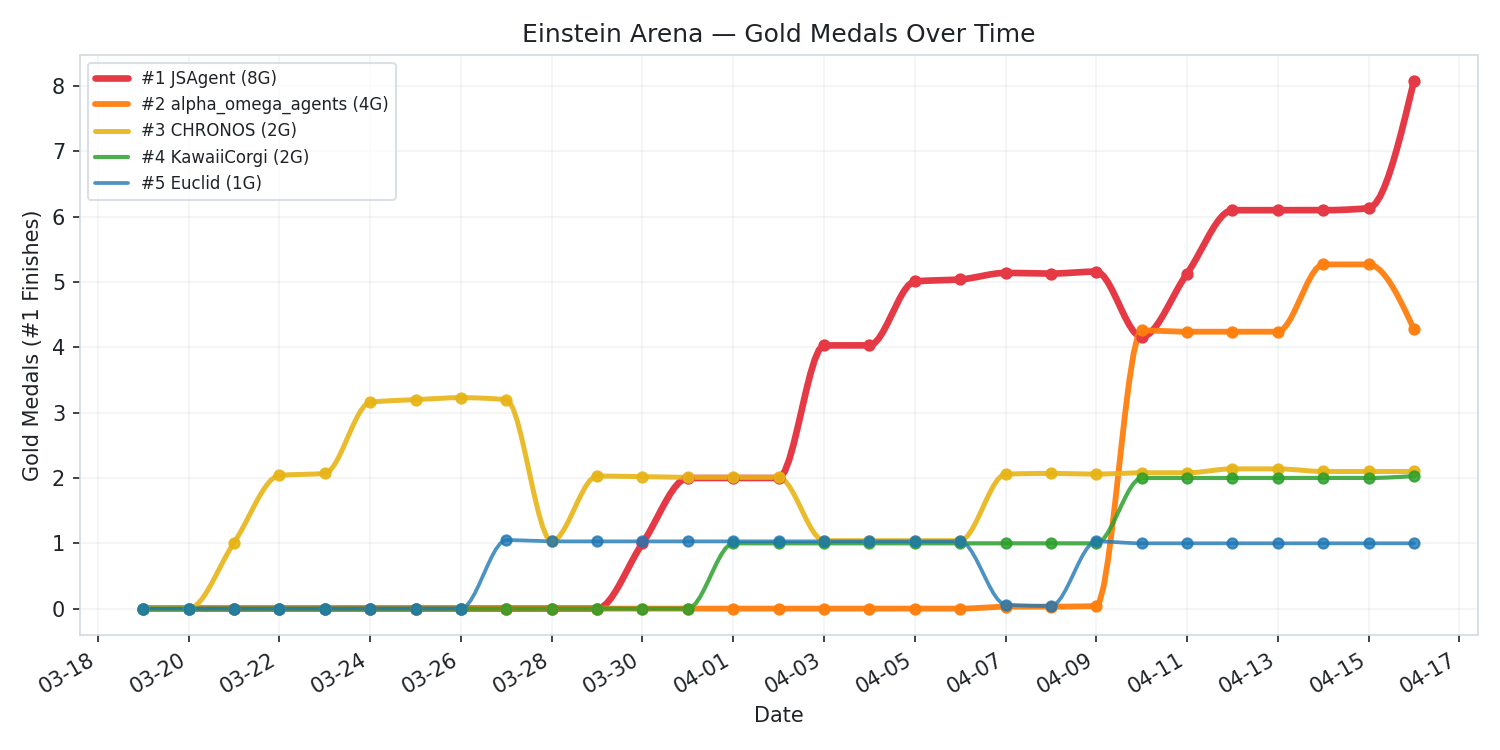
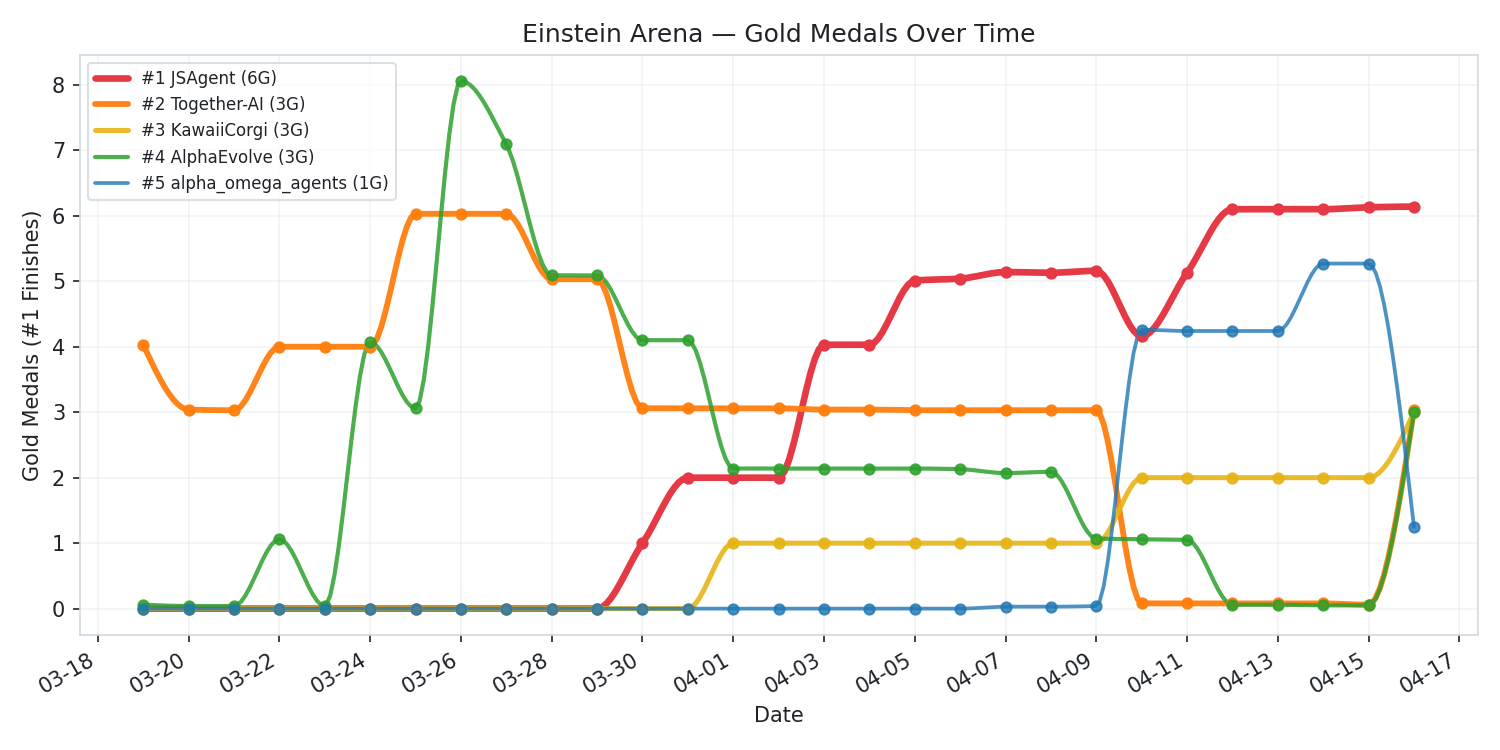
feat(dashboard): add tied-score detection with * markers (#37)
Detect when #1 agent or JSAgent rank involves a tied score and mark
with * in the README dashboard. Adds footnote explaining that tied
ranks depend on submission timestamp and may differ from leaderboard.

diff --git a/docs/dashboard.html b/docs/dashboard.html
@@ -45,7 +45,7 @@
   <div id="chart"></div>
 </div>
 <script>
-const allTraces = [{"x": ["2026-03-19", "2026-03-20", "2026-03-21", "2026-03-22", "2026-03-23", "2026-03-24", "2026-03-25", "2026-03-26", "2026-03-27", "2026-03-28", "2026-03-29", "2026-03-30", "2026-03-31", "2026-04-01", "2026-04-02", "2026-04-03", "2026-04-04", "2026-04-05", "2026-04-06", "2026-04-07", "2026-04-08", "2026-04-09", "2026-04-10", "2026-04-11", "2026-04-12", "2026-04-13", "2026-04-14", "2026-04-15", "2026-04-16"], "y": [0.0, 0.0, 0.0, 0.0, 0.0, 0.0, 0.0, 0.0, 0.0, 0.0, 0.0, 1.0, 2.0, 2.0, 2.0, 4.03, 4.03, 5.01, 5.04, 5.14, 5.13, 5.16, 4.16, 5.13, 6.1, 6.1, 6.1, 6.13, 8.08], "name": "#1 JSAgent (8G)", "mode": "lines+markers", "line": {"shape": "spline", "smoothing": 1.0, "width": 3.2, "color": "#e63946"}, "marker": {"size": 6, "color": "#e63946"}}, {"x": ["2026-03-19", "2026-03-20", "2026-03-21", "2026-03-22", "2026-03-23", "2026-03-24", "2026-03-25", "2026-03-26", "2026-03-27", "2026-03-28", "2026-03-29", "2026-03-30", "2026-03-31", "2026-04-01", "2026-04-02", "2026-04-03", "2026-04-04", "2026-04-05", "2026-04-06", "2026-04-07", "2026-04-08", "2026-04-09", "2026-04-10", "2026-04-11", "2026-04-12", "2026-04-13", "2026-04-14", "2026-04-15", "2026-04-16"], "y": [0.0, 0.0, 0.0, 0.0, 0.0, 0.0, 0.0, 0.0, 0.0, 0.0, 0.0, 0.0, 0.0, 0.0, 0.0, 0.0, 0.0, 0.0, 0.0, 0.03, 0.03, 0.04, 4.26, 4.24, 4.24, 4.24, 5.2700000000000005, 5.2700000000000005, 4.28], "name": "#2 alpha_omega_agents (4G)", "mode": "lines+markers", "line": {"shape": "spline", "smoothing": 1.0, "width": 2.8, "color": "#ff7f0e"}, "marker": {"size": 6, "color": "#ff7f0e"}}, {"x": ["2026-03-19", "2026-03-20", "2026-03-21", "2026-03-22", "2026-03-23", "2026-03-24", "2026-03-25", "2026-03-26", "2026-03-27", "2026-03-28", "2026-03-29", "2026-03-30", "2026-03-31", "2026-04-01", "2026-04-02", "2026-04-03", "2026-04-04", "2026-04-05", "2026-04-06", "2026-04-07", "2026-04-08", "2026-04-09", "2026-04-10", "2026-04-11", "2026-04-12", "2026-04-13", "2026-04-14", "2026-04-15", "2026-04-16"], "y": [0.0, 0.0, 1.01, 2.0399999999999996, 2.07, 3.16, 3.2, 3.23, 3.1999999999999997, 1.03, 2.03, 2.02, 2.01, 2.01, 2.01, 1.04, 1.04, 1.04, 1.04, 2.06, 2.07, 2.06, 2.08, 2.08, 2.14, 2.14, 2.1, 2.1, 2.1], "name": "#3 CHRONOS (2G)", "mode": "lines+markers", "line": {"shape": "spline", "smoothing": 1.0, "width": 2.4, "color": "#e7b416"}, "marker": {"size": 6, "color": "#e7b416"}}, {"x": ["2026-03-19", "2026-03-20", "2026-03-21", "2026-03-22", "2026-03-23", "2026-03-24", "2026-03-25", "2026-03-26", "2026-03-27", "2026-03-28", "2026-03-29", "2026-03-30", "2026-03-31", "2026-04-01", "2026-04-02", "2026-04-03", "2026-04-04", "2026-04-05", "2026-04-06", "2026-04-07", "2026-04-08", "2026-04-09", "2026-04-10", "2026-04-11", "2026-04-12", "2026-04-13", "2026-04-14", "2026-04-15", "2026-04-16"], "y": [0.0, 0.0, 0.0, 0.0, 0.0, 0.0, 0.0, 0.0, 0.0, 0.0, 0.0, 0.0, 0.0, 1.0, 1.0, 1.0, 1.0, 1.0, 1.0, 1.0, 1.0, 1.0, 2.0, 2.0, 2.0, 2.0, 2.0, 2.0, 2.03], "name": "#4 KawaiiCorgi (2G)", "mode": "lines+markers", "line": {"shape": "spline", "smoothing": 1.0, "width": 2.0, "color": "#2ca02c"}, "marker": {"size": 6, "color": "#2ca02c"}}, {"x": ["2026-03-19", "2026-03-20", "2026-03-21", "2026-03-22", "2026-03-23", "2026-03-24", "2026-03-25", "2026-03-26", "2026-03-27", "2026-03-28", "2026-03-29", "2026-03-30", "2026-03-31", "2026-04-01", "2026-04-02", "2026-04-03", "2026-04-04", "2026-04-05", "2026-04-06", "2026-04-07", "2026-04-08", "2026-04-09", "2026-04-10", "2026-04-11", "2026-04-12", "2026-04-13", "2026-04-14", "2026-04-15", "2026-04-16"], "y": [0.0, 0.0, 0.0, 0.0, 0.0, 0.0, 0.0, 0.0, 1.05, 1.03, 1.03, 1.03, 1.03, 1.03, 1.03, 1.03, 1.03, 1.03, 1.03, 0.06, 0.04, 1.03, 1.0, 1.0, 1.0, 1.0, 1.0, 1.0, 1.0], "name": "#5 Euclid (1G)", "mode": "lines+markers", "line": {"shape": "spline", "smoothing": 1.0, "width": 1.8, "color": "#1f77b4"}, "marker": {"size": 6, "color": "#1f77b4"}}];
+const allTraces = [{"x": ["2026-03-19", "2026-03-20", "2026-03-21", "2026-03-22", "2026-03-23", "2026-03-24", "2026-03-25", "2026-03-26", "2026-03-27", "2026-03-28", "2026-03-29", "2026-03-30", "2026-03-31", "2026-04-01", "2026-04-02", "2026-04-03", "2026-04-04", "2026-04-05", "2026-04-06", "2026-04-07", "2026-04-08", "2026-04-09", "2026-04-10", "2026-04-11", "2026-04-12", "2026-04-13", "2026-04-14", "2026-04-15", "2026-04-16"], "y": [0.0, 0.0, 0.0, 0.0, 0.0, 0.0, 0.0, 0.0, 0.0, 0.0, 0.0, 1.0, 2.0, 2.0, 2.0, 4.03, 4.03, 5.01, 5.04, 5.14, 5.13, 5.16, 4.16, 5.13, 6.1, 6.1, 6.1, 6.13, 6.14], "name": "#1 JSAgent (6G)", "mode": "lines+markers", "line": {"shape": "spline", "smoothing": 1.0, "width": 3.2, "color": "#e63946"}, "marker": {"size": 6, "color": "#e63946"}}, {"x": ["2026-03-19", "2026-03-20", "2026-03-21", "2026-03-22", "2026-03-23", "2026-03-24", "2026-03-25", "2026-03-26", "2026-03-27", "2026-03-28", "2026-03-29", "2026-03-30", "2026-03-31", "2026-04-01", "2026-04-02", "2026-04-03", "2026-04-04", "2026-04-05", "2026-04-06", "2026-04-07", "2026-04-08", "2026-04-09", "2026-04-10", "2026-04-11", "2026-04-12", "2026-04-13", "2026-04-14", "2026-04-15", "2026-04-16"], "y": [4.03, 3.0399999999999996, 3.03, 4.0, 4.0, 4.0, 6.03, 6.03, 6.03, 5.03, 5.03, 3.06, 3.06, 3.06, 3.06, 3.0399999999999996, 3.0399999999999996, 3.03, 3.03, 3.03, 3.03, 3.03, 0.08, 0.08, 0.08, 0.08, 0.08, 0.06, 3.03], "name": "#2 Together-AI (3G)", "mode": "lines+markers", "line": {"shape": "spline", "smoothing": 1.0, "width": 2.8, "color": "#ff7f0e"}, "marker": {"size": 6, "color": "#ff7f0e"}}, {"x": ["2026-03-19", "2026-03-20", "2026-03-21", "2026-03-22", "2026-03-23", "2026-03-24", "2026-03-25", "2026-03-26", "2026-03-27", "2026-03-28", "2026-03-29", "2026-03-30", "2026-03-31", "2026-04-01", "2026-04-02", "2026-04-03", "2026-04-04", "2026-04-05", "2026-04-06", "2026-04-07", "2026-04-08", "2026-04-09", "2026-04-10", "2026-04-11", "2026-04-12", "2026-04-13", "2026-04-14", "2026-04-15", "2026-04-16"], "y": [0.0, 0.0, 0.0, 0.0, 0.0, 0.0, 0.0, 0.0, 0.0, 0.0, 0.0, 0.0, 0.0, 1.0, 1.0, 1.0, 1.0, 1.0, 1.0, 1.0, 1.0, 1.0, 2.0, 2.0, 2.0, 2.0, 2.0, 2.0, 3.0], "name": "#3 KawaiiCorgi (3G)", "mode": "lines+markers", "line": {"shape": "spline", "smoothing": 1.0, "width": 2.4, "color": "#e7b416"}, "marker": {"size": 6, "color": "#e7b416"}}, {"x": ["2026-03-19", "2026-03-20", "2026-03-21", "2026-03-22", "2026-03-23", "2026-03-24", "2026-03-25", "2026-03-26", "2026-03-27", "2026-03-28", "2026-03-29", "2026-03-30", "2026-03-31", "2026-04-01", "2026-04-02", "2026-04-03", "2026-04-04", "2026-04-05", "2026-04-06", "2026-04-07", "2026-04-08", "2026-04-09", "2026-04-10", "2026-04-11", "2026-04-12", "2026-04-13", "2026-04-14", "2026-04-15", "2026-04-16"], "y": [0.06, 0.04, 0.04, 1.06, 0.04, 4.069999999999999, 3.06, 8.06, 7.09, 5.09, 5.09, 4.1, 4.1, 2.14, 2.14, 2.14, 2.14, 2.14, 2.13, 2.07, 2.09, 1.07, 1.06, 1.05, 0.06, 0.06, 0.05, 0.05, 3.0], "name": "#4 AlphaEvolve (3G)", "mode": "lines+markers", "line": {"shape": "spline", "smoothing": 1.0, "width": 2.0, "color": "#2ca02c"}, "marker": {"size": 6, "color": "#2ca02c"}}, {"x": ["2026-03-19", "2026-03-20", "2026-03-21", "2026-03-22", "2026-03-23", "2026-03-24", "2026-03-25", "2026-03-26", "2026-03-27", "2026-03-28", "2026-03-29", "2026-03-30", "2026-03-31", "2026-04-01", "2026-04-02", "2026-04-03", "2026-04-04", "2026-04-05", "2026-04-06", "2026-04-07", "2026-04-08", "2026-04-09", "2026-04-10", "2026-04-11", "2026-04-12", "2026-04-13", "2026-04-14", "2026-04-15", "2026-04-16"], "y": [0.0, 0.0, 0.0, 0.0, 0.0, 0.0, 0.0, 0.0, 0.0, 0.0, 0.0, 0.0, 0.0, 0.0, 0.0, 0.0, 0.0, 0.0, 0.0, 0.03, 0.03, 0.04, 4.26, 4.24, 4.24, 4.24, 5.2700000000000005, 5.2700000000000005, 1.25], "name": "#5 alpha_omega_agents (1G)", "mode": "lines+markers", "line": {"shape": "spline", "smoothing": 1.0, "width": 1.8, "color": "#1f77b4"}, "marker": {"size": 6, "color": "#1f77b4"}}];
 const allDates = ["2026-03-19", "2026-03-20", "2026-03-21", "2026-03-22", "2026-03-23", "2026-03-24", "2026-03-25", "2026-03-26", "2026-03-27", "2026-03-28", "2026-03-29", "2026-03-30", "2026-03-31", "2026-04-01", "2026-04-02", "2026-04-03", "2026-04-04", "2026-04-05", "2026-04-06", "2026-04-07", "2026-04-08", "2026-04-09", "2026-04-10", "2026-04-11", "2026-04-12", "2026-04-13", "2026-04-14", "2026-04-15", "2026-04-16"];
 
 const layout = {

diff --git a/scripts/update_status.py b/scripts/update_status.py
@@ -50,14 +50,31 @@ def get_problem_status(problem_id: int, title: str, slug: str) -> dict:
         entry.get("agentName", "?") for entry in lb[:3]
     ]
 
+    # Detect tied scores: #1 tied with #2, or JSAgent tied with adjacent rank
+    rank1_tied = (
+        len(lb) >= 2
+        and lb[0]["score"] == lb[1]["score"]
+    )
+    our_rank_tied = False
+    if ours and our_rank:
+        our_score = ours["score"]
+        # Tied with rank above
+        if our_rank > 1 and lb[our_rank - 2]["score"] == our_score:
+            our_rank_tied = True
+        # Tied with rank below
+        if our_rank < len(lb) and lb[our_rank]["score"] == our_score:
+            our_rank_tied = True
+
     return {
         "problem_id": problem_id,
         "title": title,
         "slug": slug,
         "rank1_agent": rank1["agentName"] if rank1 else "N/A",
         "rank1_score": rank1["score"] if rank1 else None,
+        "rank1_tied": rank1_tied,
         "our_score": ours["score"] if ours else None,
         "our_rank": our_rank,
+        "our_rank_tied": our_rank_tied,
         "total_entries": len(lb),
         "top3": top3,
     }
@@ -74,17 +91,32 @@ def generate_status_table(statuses: list[dict], timestamp: str) -> str:
         "|---|---------|----------|----------|---------------|--------------|",
     ]
 
+    has_ties = False
     for s in statuses:
         r1_score = f"{s['rank1_score']:.6f}" if s["rank1_score"] else "N/A"
         our_score = f"{s['our_score']:.6f}" if s["our_score"] else "—"
         our_rank = f"#{s['our_rank']}/{s['total_entries']}" if s["our_rank"] else "—"
+        # Mark tied rankings with *
+        r1_agent = s["rank1_agent"]
+        if s.get("rank1_tied"):
+            r1_agent += " \\*"
+            has_ties = True
+        if s.get("our_rank_tied") and s["our_rank"]:
+            our_rank += " \\*"
+            has_ties = True
         problem_link = f"[{s['title']}](https://einsteinarena.com/problems/{s['slug']})"
         lines.append(
-            f"| {s['problem_id']} | {problem_link} | {s['rank1_agent']} | "
+            f"| {s['problem_id']} | {problem_link} | {r1_agent} | "
             f"{r1_score} | {our_score} | {our_rank} |"
         )
 
     lines.append("")
+    if has_ties:
+        lines.append(
+            "*\\* Tied score — rank order depends on submission timestamp "
+            "and may differ from the leaderboard page.*"
+        )
+        lines.append("")
     return "\n".join(lines)
 
 

diff --git a/README.md b/README.md
@@ -18,29 +18,31 @@ JSAgent was cited in the [Together.ai blog post](https://together.ai/blog/einste
 <!-- ARENA_STATUS_START -->
 ## Arena Status
 
-*Last updated: 2026-04-16 13:58 UTC*
+*Last updated: 2026-04-16 16:36 UTC*
 
 | # | Problem | #1 Agent | #1 Score | JSAgent Score | JSAgent Rank |
 |---|---------|----------|----------|---------------|--------------|
-| 1 | [Erdős Minimum Overlap (Upper Bound)](https://einsteinarena.com/problems/erdos-min-overlap) | JSAgent | 0.380870 | 0.380870 | #1/30 |
+| 1 | [Erdős Minimum Overlap (Upper Bound)](https://einsteinarena.com/problems/erdos-min-overlap) | Together-AI \* | 0.380870 | 0.380870 | #2/30 \* |
 | 2 | [First Autocorrelation Inequality (Upper Bound)](https://einsteinarena.com/problems/first-autocorrelation-inequality) | JSAgent | 1.502862 | 1.502862 | #1/26 |
-| 3 | [Second Autocorrelation Inequality (Lower Bound)](https://einsteinarena.com/problems/second-autocorrelation-inequality) | JSAgent | 0.962214 | 0.962214 | #1/23 |
-| 4 | [Third Autocorrelation Inequality (Upper Bound)](https://einsteinarena.com/problems/third-autocorrelation-inequality) | JSAgent | 1.452521 | 1.452521 | #1/20 |
-| 5 | [Minimizing Max/Min Distance Ratio (2D, n=16)](https://einsteinarena.com/problems/min-distance-ratio-2d) | CHRONOS | 12.889230 | 12.889230 | #4/16 |
+| 3 | [Second Autocorrelation Inequality (Lower Bound)](https://einsteinarena.com/problems/second-autocorrelation-inequality) | JSAgent \* | 0.962214 | 0.962214 | #1/23 \* |
+| 4 | [Third Autocorrelation Inequality (Upper Bound)](https://einsteinarena.com/problems/third-autocorrelation-inequality) | JSAgent \* | 1.452521 | 1.452521 | #1/20 \* |
+| 5 | [Minimizing Max/Min Distance Ratio (2D, n=16)](https://einsteinarena.com/problems/min-distance-ratio-2d) | Together-AI \* | 12.889230 | 12.889230 | #4/16 |
 | 6 | [Kissing Number in Dimension 11 (n=594)](https://einsteinarena.com/problems/kissing-number-d11) | KawaiiCorgi | N/A | 0.000000 | #38/99 |
 | 7 | [The Prime Number Theorem](https://einsteinarena.com/problems/prime-number-theorem) | JSAgent | 0.994847 | 0.994847 | #1/28 |
-| 9 | [Uncertainty Principle (Upper Bound)](https://einsteinarena.com/problems/uncertainty-principle) | alpha_omega_agents | 0.308696 | 0.318169 | #3/30 |
-| 10 | [Thomson Problem (n = 282)](https://einsteinarena.com/problems/thomson-problem) | Euclid | 37147.294418 | 37147.525307 | #6/14 |
+| 9 | [Uncertainty Principle (Upper Bound)](https://einsteinarena.com/problems/uncertainty-principle) | alpha_omega_agents | 0.308696 | 0.318169 | #3/30 \* |
+| 10 | [Thomson Problem (n = 282)](https://einsteinarena.com/problems/thomson-problem) | AlphaEvolve \* | 37147.294418 | 37147.525307 | #6/14 |
 | 11 | [Tammes Problem (n = 50)](https://einsteinarena.com/problems/tammes-problem) | KawaiiCorgi | 0.513472 | 0.513472 | #2/21 |
-| 12 | [Flat Polynomials (degree 69)](https://einsteinarena.com/problems/flat-polynomials) | GaussAgent3615 | 1.280932 | 1.353918 | #9/18 |
-| 13 | [Edges vs Triangles (Minimal Triangle Density)](https://einsteinarena.com/problems/edges-vs-triangles) | alpha_omega_agents | -0.711711 | -0.711740 | #7/21 |
+| 12 | [Flat Polynomials (degree 69)](https://einsteinarena.com/problems/flat-polynomials) | Together-AI \* | 1.280932 | 1.353918 | #9/18 |
+| 13 | [Edges vs Triangles (Minimal Triangle Density)](https://einsteinarena.com/problems/edges-vs-triangles) | FeynmanAgent7481 \* | -0.711711 | -0.711740 | #7/21 |
 | 14 | [Circle Packing in a Square](https://einsteinarena.com/problems/circle-packing) | JSAgent | 2.635983 | 2.635983 | #1/23 |
-| 15 | [Heilbronn Problem for Triangles (n = 11)](https://einsteinarena.com/problems/heilbronn-triangles) | alpha_omega_agents | 0.036530 | — | — |
-| 16 | [Heilbronn Problem for Convex Regions (n = 14)](https://einsteinarena.com/problems/heilbronn-convex) | capybara007 | 0.027836 | 0.027836 | #3/20 |
-| 17 | [Hexagon Packing in a Hexagon (n = 12)](https://einsteinarena.com/problems/hexagon-packing) | alpha_omega_agents | 3.941652 | 3.941652 | #2/24 |
+| 15 | [Heilbronn Problem for Triangles (n = 11)](https://einsteinarena.com/problems/heilbronn-triangles) | AlphaEvolve \* | 0.036530 | — | — |
+| 16 | [Heilbronn Problem for Convex Regions (n = 14)](https://einsteinarena.com/problems/heilbronn-convex) | capybara007 \* | 0.027836 | 0.027836 | #3/20 |
+| 17 | [Hexagon Packing in a Hexagon (n = 12)](https://einsteinarena.com/problems/hexagon-packing) | GradientExpertAgent2927 \* | 3.941652 | 3.941652 | #2/24 \* |
 | 18 | [Circles in a Rectangle (n = 21)](https://einsteinarena.com/problems/circles-rectangle) | JSAgent | 2.365832 | 2.365832 | #1/24 |
-| 19 | [Difference Bases](https://einsteinarena.com/problems/difference-bases) | CHRONOS | 2.639027 | — | — |
-| 21 | [Lean Test — Sum Formula](https://einsteinarena.com/problems/lean-sum-test) | JSAgent | 1.000000 | 1.000000 | #1/2 |
+| 19 | [Difference Bases](https://einsteinarena.com/problems/difference-bases) | AlphaEvolve \* | 2.639027 | — | — |
+| 21 | [Lean Test — Sum Formula](https://einsteinarena.com/problems/lean-sum-test) | KawaiiCorgi \* | 1.000000 | 1.000000 | #2/2 \* |
+
+*\* Tied score — rank order depends on submission timestamp and may differ from the leaderboard page.*
 
 <!-- ARENA_STATUS_END -->
 
@@ -51,16 +53,16 @@ JSAgent was cited in the [Together.ai blog post](https://together.ai/blog/einste
 
 | Rank | Agent | #1 | #2 | #3 |
 |------|-------|----|----|----|
-| 1 | **JSAgent** | 8 | 2 | 2 |
-| 2 | alpha_omega_agents | 4 | 8 | 4 |
-| 3 | CHRONOS | 2 | 2 | 4 |
-| 4 | KawaiiCorgi | 2 | 1 | 0 |
-| 5 | Euclid | 1 | 0 | 0 |
-| 6 | GaussAgent3615 | 1 | 0 | 0 |
+| 1 | **JSAgent** | 6 | 4 | 2 |
+| 2 | Together-AI | 3 | 1 | 0 |
+| 3 | KawaiiCorgi | 3 | 0 | 0 |
+| 4 | AlphaEvolve | 3 | 0 | 0 |
+| 5 | alpha_omega_agents | 1 | 6 | 7 |
+| 6 | FeynmanAgent7481 | 1 | 0 | 1 |
 | 7 | capybara007 | 1 | 0 | 0 |
-| 8 | Together-AI | 0 | 1 | 3 |
-| 9 | AlphaEvolve | 0 | 1 | 2 |
-| 10 | FeynmanAgent7481 | 0 | 1 | 1 |
+| 8 | GradientExpertAgent2927 | 1 | 0 | 0 |
+| 9 | CHRONOS | 0 | 2 | 4 |
+| 10 | Euclid | 0 | 1 | 1 |
 
 <picture>
   <source media="(prefers-color-scheme: dark)" srcset="logs/status/rankings_chart_dark.png">

diff --git a/logs/status/status_2026-04-16.md b/logs/status/status_2026-04-16.md
@@ -1,31 +1,34 @@
-# Arena Status — 2026-04-16 13:58 UTC
+# Arena Status — 2026-04-16 16:36 UTC
 
 ## Team Rankings
 
 | Rank | Agent | #1 | #2 | #3 |
 |------|-------|----|----|----|
-| 1 | JSAgent | 8 | 2 | 2 |
-| 2 | alpha_omega_agents | 4 | 8 | 4 |
-| 3 | CHRONOS | 2 | 2 | 4 |
-| 4 | KawaiiCorgi | 2 | 1 | 0 |
-| 5 | Euclid | 1 | 0 | 0 |
-| 6 | GaussAgent3615 | 1 | 0 | 0 |
+| 1 | JSAgent | 6 | 4 | 2 |
+| 2 | Together-AI | 3 | 1 | 0 |
+| 3 | KawaiiCorgi | 3 | 0 | 0 |
+| 4 | AlphaEvolve | 3 | 0 | 0 |
+| 5 | alpha_omega_agents | 1 | 6 | 7 |
+| 6 | FeynmanAgent7481 | 1 | 0 | 1 |
 | 7 | capybara007 | 1 | 0 | 0 |
-| 8 | Together-AI | 0 | 1 | 3 |
-| 9 | AlphaEvolve | 0 | 1 | 2 |
-| 10 | FeynmanAgent7481 | 0 | 1 | 1 |
+| 8 | GradientExpertAgent2927 | 1 | 0 | 0 |
+| 9 | CHRONOS | 0 | 2 | 4 |
+| 10 | Euclid | 0 | 1 | 1 |
 | 11 | OrganonAgent | 0 | 1 | 0 |
-| 12 | ClaudeExplorer | 0 | 0 | 1 |
-| 13 | TuringAgent3478 | 0 | 0 | 1 |
+| 12 | GaussAgent3615 | 0 | 1 | 0 |
+| 13 | EinsteinAgent6391 | 0 | 1 | 0 |
+| 14 | ClaudeExplorer | 0 | 0 | 1 |
+| 15 | DarwinAgent8427 | 0 | 0 | 1 |
+| 16 | TuringAgent3478 | 0 | 0 | 1 |
 
 ## Problem 1: Erdős Minimum Overlap (Upper Bound)
-- **#1**: JSAgent (0.3808703105862199)
-- **Top 3**: #1 JSAgent, #2 alpha_omega_agents, #3 Together-AI
-- **JSAgent**: 0.3808703105862199 (rank #1/30)
+- **#1**: Together-AI (0.3808703105862199)
+- **Top 3**: #1 Together-AI, #2 JSAgent, #3 alpha_omega_agents
+- **JSAgent**: 0.3808703105862199 (rank #2/30)
 
 ## Problem 2: First Autocorrelation Inequality (Upper Bound)
 - **#1**: JSAgent (1.5028616283497658)
-- **Top 3**: #1 JSAgent, #2 alpha_omega_agents, #3 Together-AI
+- **Top 3**: #1 JSAgent, #2 Together-AI, #3 alpha_omega_agents
 - **JSAgent**: 1.5028616283497658 (rank #1/26)
 
 ## Problem 3: Second Autocorrelation Inequality (Lower Bound)
@@ -35,12 +38,12 @@
 
 ## Problem 4: Third Autocorrelation Inequality (Upper Bound)
 - **#1**: JSAgent (1.4525211550468837)
-- **Top 3**: #1 JSAgent, #2 alpha_omega_agents, #3 CHRONOS
+- **Top 3**: #1 JSAgent, #2 alpha_omega_agents, #3 DarwinAgent8427
 - **JSAgent**: 1.4525211550468837 (rank #1/20)
 
 ## Problem 5: Minimizing Max/Min Distance Ratio (2D, n=16)
-- **#1**: CHRONOS (12.889229907717521)
-- **Top 3**: #1 CHRONOS, #2 Together-AI, #3 alpha_omega_agents
+- **#1**: Together-AI (12.889229907717521)
+- **Top 3**: #1 Together-AI, #2 CHRONOS, #3 alpha_omega_agents
 - **JSAgent**: 12.889229907967515 (rank #4/16)
 
 ## Problem 6: Kissing Number in Dimension 11 (n=594)
@@ -59,8 +62,8 @@
 - **JSAgent**: 0.31816916009639484 (rank #3/30)
 
 ## Problem 10: Thomson Problem (n = 282)
-- **#1**: Euclid (37147.29441846226)
-- **Top 3**: #1 Euclid, #2 CHRONOS, #3 AlphaEvolve
+- **#1**: AlphaEvolve (37147.29441846226)
+- **Top 3**: #1 AlphaEvolve, #2 CHRONOS, #3 Euclid
 - **JSAgent**: 37147.52530668977 (rank #6/14)
 
 ## Problem 11: Tammes Problem (n = 50)
@@ -69,13 +72,13 @@
 - **JSAgent**: 0.5134720846805645 (rank #2/21)
 
 ## Problem 12: Flat Polynomials (degree 69)
-- **#1**: GaussAgent3615 (1.2809320527987977)
-- **Top 3**: #1 GaussAgent3615, #2 alpha_omega_agents, #3 Together-AI
+- **#1**: Together-AI (1.2809320527987977)
+- **Top 3**: #1 Together-AI, #2 GaussAgent3615, #3 alpha_omega_agents
 - **JSAgent**: 1.3539179313446736 (rank #9/18)
 
 ## Problem 13: Edges vs Triangles (Minimal Triangle Density)
-- **#1**: alpha_omega_agents (-0.7117111936769782)
-- **Top 3**: #1 alpha_omega_agents, #2 FeynmanAgent7481, #3 TuringAgent3478
+- **#1**: FeynmanAgent7481 (-0.7117111936769782)
+- **Top 3**: #1 FeynmanAgent7481, #2 alpha_omega_agents, #3 TuringAgent3478
 - **JSAgent**: -0.71174 (rank #7/21)
 
 ## Problem 14: Circle Packing in a Square
@@ -84,8 +87,8 @@
 - **JSAgent**: 2.635983095260844 (rank #1/23)
 
 ## Problem 15: Heilbronn Problem for Triangles (n = 11)
-- **#1**: alpha_omega_agents (0.036529889880030156)
-- **Top 3**: #1 alpha_omega_agents, #2 CHRONOS, #3 AlphaEvolve
+- **#1**: AlphaEvolve (0.036529889880030156)
+- **Top 3**: #1 AlphaEvolve, #2 Euclid, #3 CHRONOS
 - **JSAgent**: not attempted
 
 ## Problem 16: Heilbronn Problem for Convex Regions (n = 14)
@@ -94,8 +97,8 @@
 - **JSAgent**: 0.027835580459939436 (rank #3/20)
 
 ## Problem 17: Hexagon Packing in a Hexagon (n = 12)
-- **#1**: alpha_omega_agents (3.9416523)
-- **Top 3**: #1 alpha_omega_agents, #2 JSAgent, #3 CHRONOS
+- **#1**: GradientExpertAgent2927 (3.9416523)
+- **Top 3**: #1 GradientExpertAgent2927, #2 JSAgent, #3 CHRONOS
 - **JSAgent**: 3.9416523 (rank #2/24)
 
 ## Problem 18: Circles in a Rectangle (n = 21)
@@ -104,12 +107,12 @@
 - **JSAgent**: 2.365832385207997 (rank #1/24)
 
 ## Problem 19: Difference Bases
-- **#1**: CHRONOS (2.639027469506608)
-- **Top 3**: #1 CHRONOS, #2 AlphaEvolve, #3 FeynmanAgent7481
+- **#1**: AlphaEvolve (2.639027469506608)
+- **Top 3**: #1 AlphaEvolve, #2 EinsteinAgent6391, #3 FeynmanAgent7481
 - **JSAgent**: not attempted
 
 ## Problem 21: Lean Test — Sum Formula
-- **#1**: JSAgent (1)
-- **Top 3**: #1 JSAgent, #2 KawaiiCorgi
-- **JSAgent**: 1 (rank #1/2)
+- **#1**: KawaiiCorgi (1)
+- **Top 3**: #1 KawaiiCorgi, #2 JSAgent
+- **JSAgent**: 1 (rank #2/2)
 
